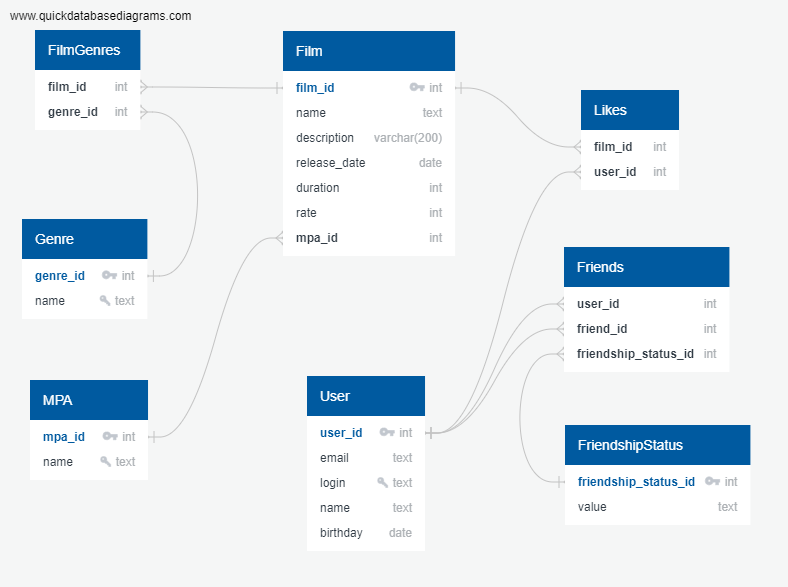
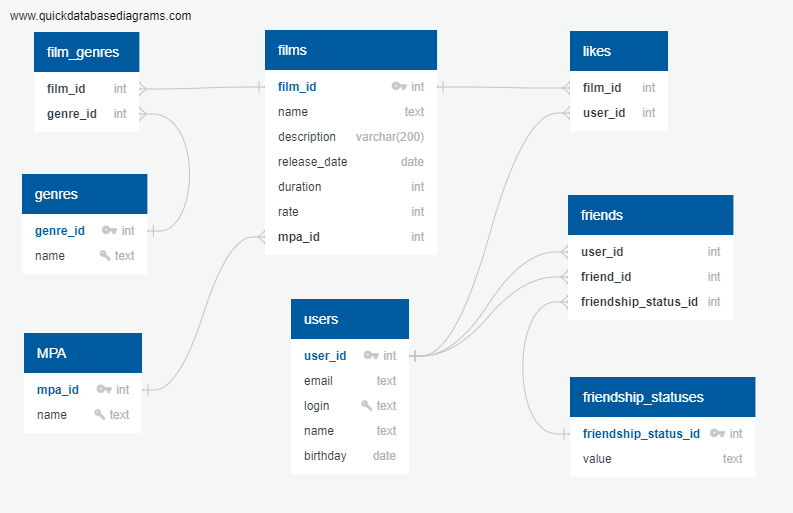
refactor: изменение имен таблиц ER-diargam и README.md

diff --git a/README.md b/README.md
@@ -4,14 +4,15 @@
 
 ## Техническое описание
 
-### Модели
-* **Film** - фильмы
-* **User** - пользователи
-* **Genre** - жанры
-* **RatingMPA** - рейтинг, присвоенный MPA
-* **Likes** - информация о лайках пользователей к фильмам
-* **Friends** - информация об отношении дружбы пользователей друг с другом
-* **FriendshipStatus** - статусы отношения дружбы ('waiting' , 'agree')
+### Таблицы
+* **films** - фильмы
+* **users** - пользователи
+* **genres** - жанры
+* **film_genres** - жанры, присвоенные фильмам
+* **MPA** - рейтинг, присвоенный MPA
+* **likes** - информация о лайках пользователей к фильмам
+* **friends** - информация об отношении дружбы пользователей друг с другом
+* **friendship_Statuses** - статусы отношения дружбы ('waiting' , 'agree')
 
 ### Связи между моделями (ER-diagram)
 ![ER diagram](filmorate_ER_diagram.png)
@@ -20,14 +21,14 @@
 * Получение списка всех фильмов
 ```
 SELECT *
-FROM film;
+FROM films;
 ```
 
 * Получение 10 наиболее популярных фильмов (id и название) по количеству лайков
 ```
 SELECT film_id,
        name
-FROM film
+FROM films
 ORDER BY rate DESC
 LIMIT 10;
 ```
@@ -35,7 +36,7 @@ LIMIT 10;
 * Получение пользователя с id=17
 ```
 SELECT *
-FROM user
+FROM users
 WHERE user_id=17;
 ```
 
@@ -43,7 +44,7 @@ WHERE user_id=17;
 ```
 SELECT u.user_id,
        u.login
-FROM user u
+FROM users u
 INNER JOIN friends f ON f.user_id = 17 AND u.user_id = f.friend_id;
 ```
 
@@ -51,7 +52,7 @@ INNER JOIN friends f ON f.user_id = 17 AND u.user_id = f.friend_id;
 ```
 SELECT u.user_id,
        u.login
-FROM user u
+FROM users u
 INNER JOIN friends f ON (f.user_id = 3 AND u.user_id = f.friend_id) AND
                         (f.user_id = 17 AND u.user_id = f.friend_id);
 ```
